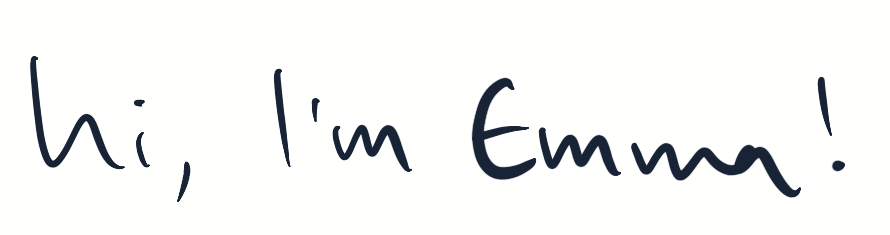
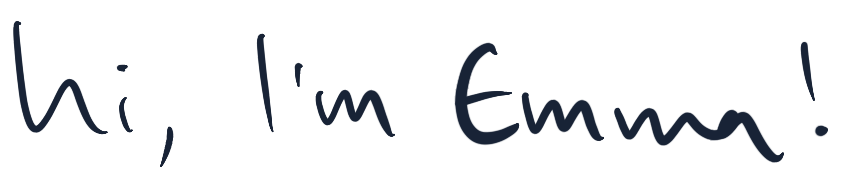
edited heading section

diff --git a/src/app/page.js b/src/app/page.js
@@ -3,25 +3,25 @@ import Image from "next/image";
 import ContactForm from "@/components/contactForm";
 import Link from "next/link";
 import OutlineCard from "@/components/OutlineCard";
+import { color } from "framer-motion";
 export default function Home() {
   return (
     <>
       <Navbar />
       <div id="about" style={styles.stackContainer}>
-        <div style={styles.rowContainer}>
-          <div>
-            <Image
-              src="/images/signature.png"
-              alt="Description for Accessibility"
-              width={500}
-              height={100}
-            />
-            <p style={styles.aboutText}>
-              I am a student at the university of kansas studying{" "}
-              <strong>computer science</strong> & <strong>visual arts.</strong>
-            </p>
-          </div>
-          <div style={styles.imageContainer}>
+        <div style={styles.headingContainer}>
+          <Image
+            src="/images/signature.png"
+            alt="Description for Accessibility"
+            width={800}
+            height={200}
+            style={styles.signatureImage}
+          />
+          <p style={styles.aboutText}>
+            I am an <strong>artist</strong> & <strong>web3 developer. </strong>
+          </p>
+
+          {/* <div style={styles.imageContainer}>
             <Image
               src="/images/profile_pic.jpeg" // replace with your image path
               alt="Profile Picture"
@@ -29,16 +29,16 @@ export default function Home() {
               height={250} // adjust as needed
               style={styles.profileImage}
             />
-          </div>
+          </div> */}
         </div>
-        <div style={styles.lineArtContainer}>
+        {/* <div style={styles.lineArtContainer}>
           <Image
             src="/images/campusLineArt.jpeg"
             alt="Description for Accessibility"
             width={800}
             height={200}
           />
-        </div>
+        </div> */}
 
         <div>
           <Link href="https://github.com/emmanasseri" style={styles.linkButton}>
@@ -52,8 +52,8 @@ export default function Home() {
             <Image src="/images/icons/linkedin.png" width="70" height="70" />
           </Link>
         </div>
-        <div style={styles.csContainer} id="coding">
-          <h2 style={styles.centeredTitle}>i like to code!</h2>
+        <div style={styles.csContainer} id="coding" textAlign="center">
+          <h1 style={styles.centeredTitle}>I like to code!</h1>
           <div style={styles.githubChart}>
             <img
               src="http://ghchart.rshah.org/409ba5/emmanasseri"
@@ -106,6 +106,18 @@ const styles = {
     justifyContent: "center", // This centers the stackContainer items on the cross-axis (horizontally, since it's a column)
     marginBottom: "50px",
   },
+  headingContainer: {
+    display: "flex",
+    flexDirection: "column", // Stack items vertically
+    justifyContent: "center",
+    backgroundImage: "url('/images/sunset-clouds.jpg')", // Reference the image in the public folder
+    backgroundSize: "cover", // Ensure the image covers the entire container
+    backgroundPosition: "center", // Center the background image
+    backgroundRepeat: "no-repeat", // Prevent the image from repeating
+    minHeight: "100vh", // Ensure the div takes up the full viewport height
+    width: "100%", // Ensure it spans the full width
+    marginBottom: "50px",
+  },
   rowContainer: {
     display: "flex",
     flexDirection: "row", // Lay out items horizontally
@@ -116,10 +128,10 @@ const styles = {
   },
   aboutText: {
     margin: "20px", // adjust spacing as needed
+    fontSize: "36px", // adjust font size as needed
+    fontColor: "white", // adjust text color as needed
   },
-  lineArtContainer: {
-    marginBottom: "50px",
-  },
+
   imageContainer: {
     borderRadius: "50%",
     overflow: "hidden",
@@ -132,23 +144,52 @@ const styles = {
   profileImage: {
     borderRadius: "50%", // this will make the image circular
   },
+  signatureImage: {
+    width: "100%", // Make it responsive
+    maxWidth: "800px", // Set maximum width for larger screens
+    height: "auto", // Maintain aspect ratio
+  },
+  "@media (max-width: 768px)": {
+    signatureImage: {
+      maxWidth: "90%", // Shrink to 90% of the container on smaller screens
+    },
+    aboutText: {
+      fontSize: "24px", // Reduce font size on smaller screens
+    },
+  },
   linkButton: { margin: "20px" },
   githubLogo: {
     margin: "50px",
   },
   githubChart: {
     display: "flex",
-    justifyContent: "center", // Center items horizontally
-    alignItems: "center", // Center items vertically
+    justifyContent: "center",
+    alignItems: "center",
     marginBottom: "70px",
   },
+  "githubChart img": {
+    width: "auto",
+    height: "auto", // Default sizes for larger screens
+  },
+  "@media (max-width: 768px)": {
+    githubChart: {
+      marginBottom: "30px", // Adjust margin for smaller screens
+    },
+    "githubChart img": {
+      width: "50px", // Scale down to 50px width on small screens
+      height: "50px", // Scale down to 50px height on small screens
+    },
+  },
   csContainer: {
-    padding: "20px", // Adds some padding to the overall page
+    padding: "20px",
+    width: "100%",
+    height: "auto",
   },
   centeredTitle: {
     textAlign: "center",
     marginBottom: "20px", // Adds some space below the title
     marginTop: "20px",
+    fontSize: "xl",
   },
   cardsContainer: {
     display: "flex",
